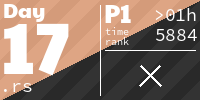
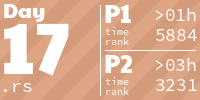
day17: part 2 solution

diff --git a/src/day17.rs b/src/day17.rs
@@ -33,8 +33,8 @@ enum Opcode {
     cdv = 7,
 }
 
-impl From<usize> for Opcode {
-    fn from(value: usize) -> Self {
+impl From<i64> for Opcode {
+    fn from(value: i64) -> Self {
         match value {
             0 => Opcode::adv,
             1 => Opcode::bxl,
@@ -97,12 +97,15 @@ struct RegisterFile<const SIZE: usize, T> {
     file: [T; SIZE],
 }
 
-impl<T, const SIZE: usize> RegisterFile<SIZE, T> {
+impl<T: Clone + From<i64>, const SIZE: usize> RegisterFile<SIZE, T> {
     fn load(&self, reg: Register) -> &T {
         &self.file[reg as usize]
     }
     fn store(&mut self, reg: Register, val: T) {
         self.file[reg as usize] = val;
+    }
+    fn reset(&mut self) {
+        self.file.fill(0.into());
     }
 }
 
@@ -113,9 +116,6 @@ struct Instruction {
 }
 
 impl Instruction {
-    fn new(opcode: Opcode, operand: Operand) -> Self {
-        Self { opcode, operand }
-    }
     fn exec(&self, m: &mut Machine) {
         match self.opcode {
             Opcode::adv => self.adv(m),
@@ -178,9 +178,10 @@ impl Instruction {
 }
 
 #[derive(Debug)]
-struct Machine {
+pub struct Machine {
     registers: RegisterFile<3, i64>,
     program: Vec<Instruction>,
+    program_raw: Vec<i64>,
     ip: usize,
     out_file: Vec<i64>,
 }
@@ -202,6 +203,11 @@ impl Machine {
     fn jump(&mut self, addr: usize) {
         self.ip = addr;
     }
+    fn reset(&mut self) {
+        self.registers.reset();
+        self.ip = 0;
+        self.out_file.clear();
+    }
 }
 
 fn parse(input: &str) -> Machine {
@@ -210,6 +216,7 @@ fn parse(input: &str) -> Machine {
 
     let mut registers: RegisterFile<3, i64> = RegisterFile { file: [0; 3] };
     let mut program = Vec::new();
+    let mut program_raw = Vec::new();
     for line in input.lines() {
         if let Some(caps) = reg_re.captures(line) {
             let address = (caps[1].as_bytes()[0] - b'A') as usize;
@@ -220,10 +227,13 @@ fn parse(input: &str) -> Machine {
         if let Some(caps) = prog_re.captures(line) {
             let instructions = caps[1].split(',');
             for (inst, operand) in instructions.tuples() {
-                let opcode: Opcode = inst.parse::<usize>().unwrap().into();
-                let operand = operand.parse::<i64>().unwrap().into();
+                let opcode = inst.parse::<i64>().unwrap();
+                let operand = operand.parse::<i64>().unwrap();
+                program_raw.push(opcode);
+                program_raw.push(operand);
+                let opcode: Opcode = opcode.into();
                 program.push(Instruction {
-                    operand: opcode.interp_operand(operand),
+                    operand: opcode.interp_operand(operand as i64),
                     opcode,
                 });
             }
@@ -233,6 +243,7 @@ fn parse(input: &str) -> Machine {
     Machine {
         registers,
         program,
+        program_raw,
         out_file: Vec::new(),
         ip: 0,
     }
@@ -245,27 +256,56 @@ pub fn part1(input: &str) -> String {
     machine.out_file.iter().map(|n| n.to_string()).join(",")
 }
 
+pub fn solve(m: &mut Machine, guess: i64, i: usize) -> Option<i64> {
+    if i as usize == m.program_raw.len() {
+        return Some(guess as i64);
+    }
+    let program_pos = m.program_raw.len() - 1 - i;
+    let goal_digit = m.program_raw[program_pos];
+
+    for digit in 0..8 {
+        let local_guess = (digit << (program_pos*3)) + guess;
+        m.reset();
+        m.registers.store(Register::A, local_guess);
+        m.run();
+        if m.out_file.len() == m.program_raw.len() && m.out_file[program_pos] == goal_digit {
+            if let Some(sol) = solve(m, local_guess, i+1) {
+                return Some(sol)
+            }
+        }
+    }
+    None
+}
+
 #[aoc(day17, part2)]
 pub fn part2(input: &str) -> i64 {
-    0
+    let mut machine = parse(input);
+
+    return solve(&mut machine, 0, 0).expect("expected a solution");
 }
 
 #[cfg(test)]
 mod tests {
     use super::*;
-    const EXAMPLE: &str = "Register A: 729
+    const EXAMPLE1: &str = "Register A: 729
 Register B: 0
 Register C: 0
 
 Program: 0,1,5,4,3,0";
 
+    const EXAMPLE2: &str = "Register A: 2024
+Register B: 0
+Register C: 0
+
+Program: 0,3,5,4,3,0";
+
     #[test]
     fn part1_example() {
-        assert_eq!(part1(EXAMPLE), "4,6,3,5,6,3,5,2,1,0");
+        assert_eq!(part1(EXAMPLE1), "4,6,3,5,6,3,5,2,1,0");
     }
 
     #[test]
     fn part2_example() {
-        assert_eq!(part2(EXAMPLE), 0);
+        assert_eq!(part2(EXAMPLE2), 117440);
     }
 }

diff --git a/README.md b/README.md
@@ -1,6 +1,6 @@
 <!-- AOC TILES BEGIN -->
 <h1 align="center">
-  2024 - 33 ⭐ - Rust
+  2024 - 34 ⭐ - Rust
 </h1>
 <a href="src/day1.rs">
   <img src=".aoc_tiles/tiles/2024/01.png" width="161px">
